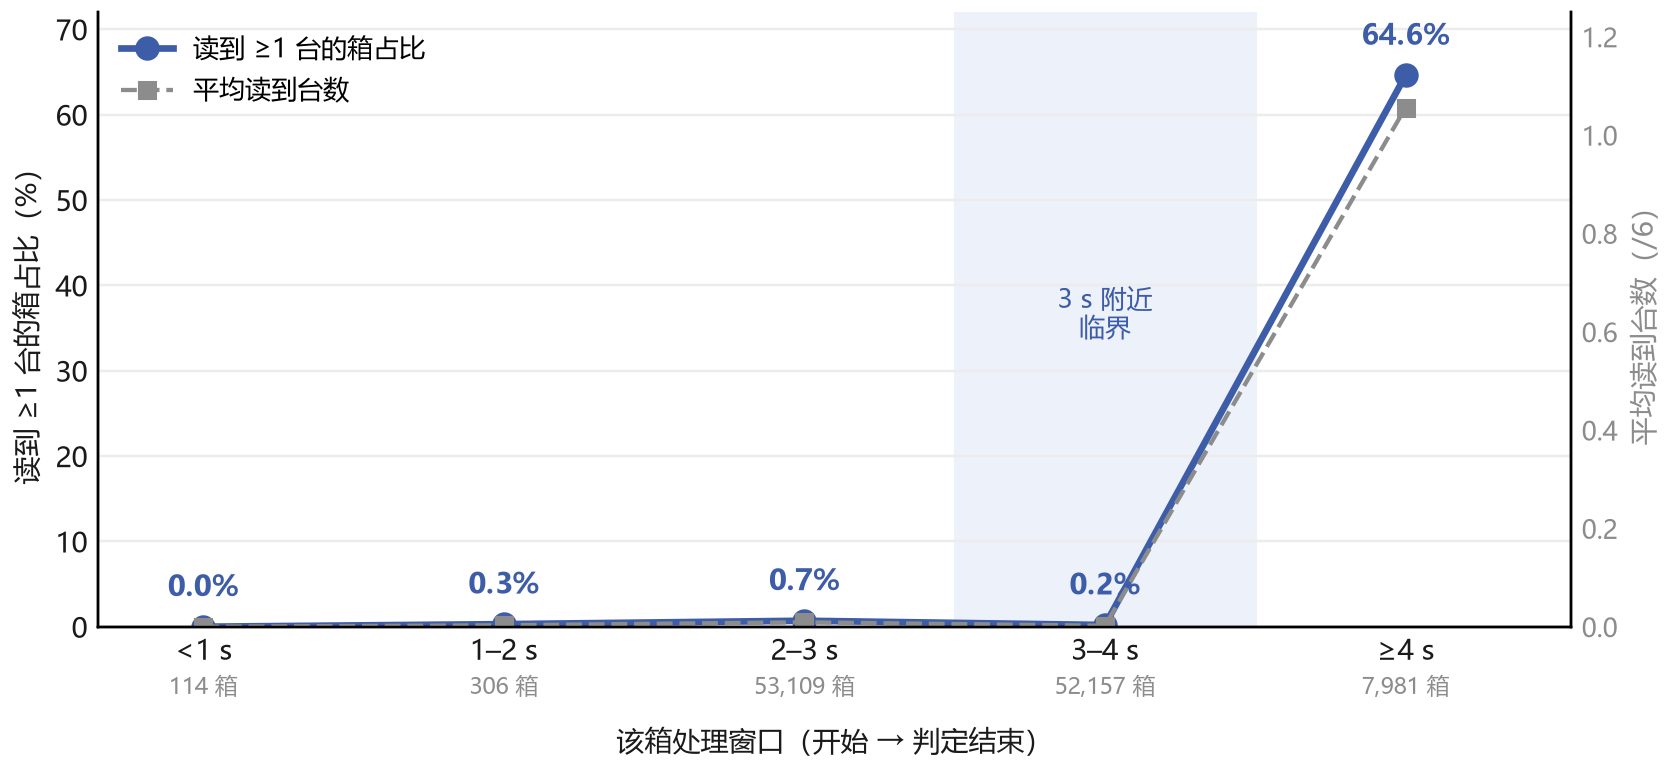
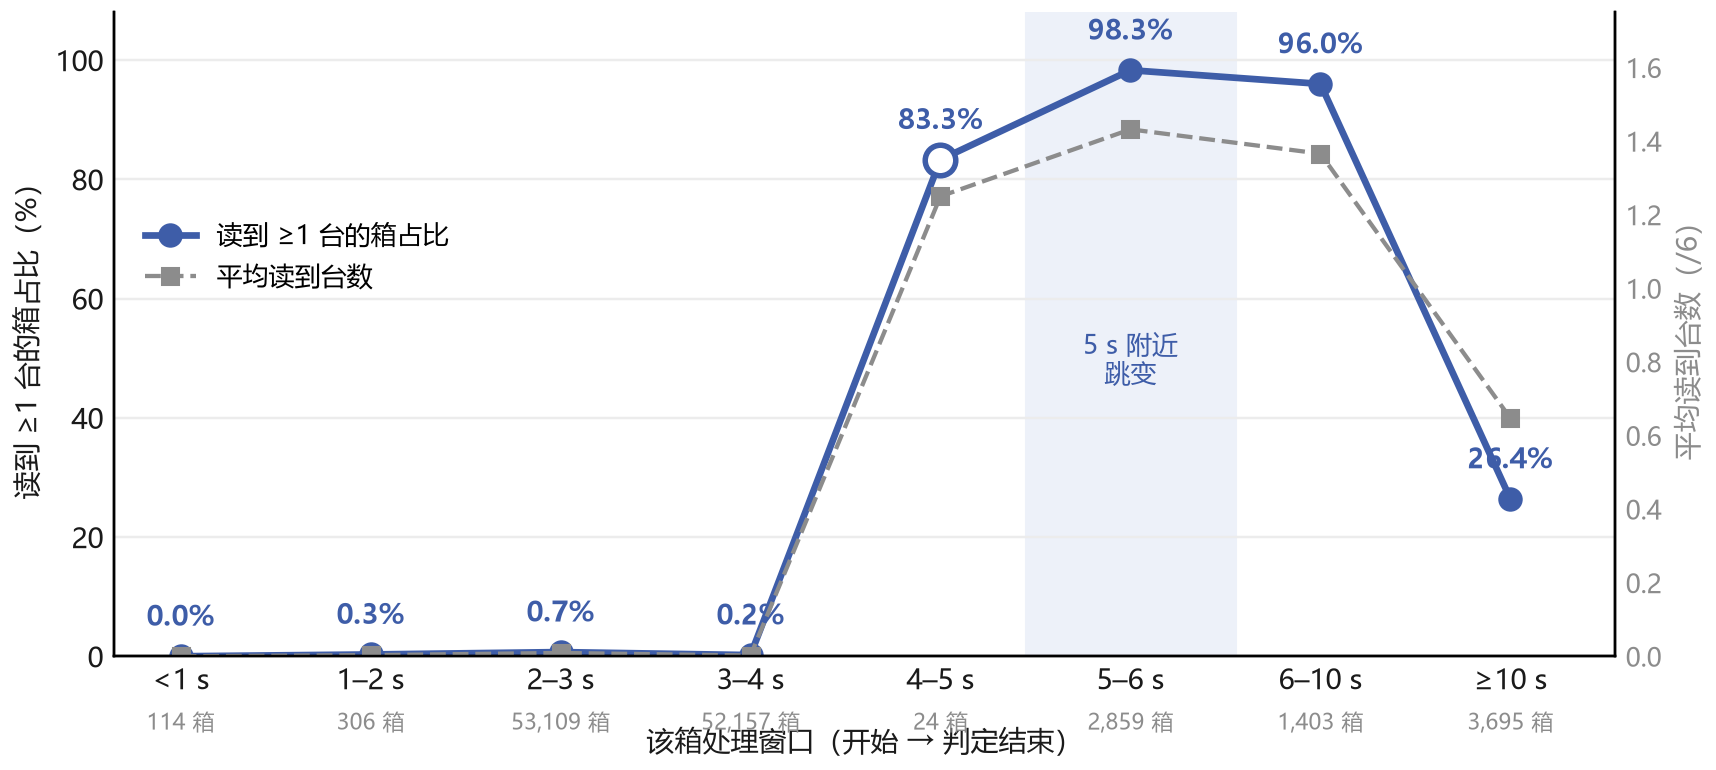
feat(rfid): 停留时间细化到 4-5s/5-6s/6-10s/≥10s 八档，结论改为「5 s 才是卡点」
- ≥4 s 一档太宽（把 5-6 s 的 98% 与 ≥10 s 的 26% 混在一起），重算 8 档并出 CSV dwell_buckets.csv
- 按型号交叉验证：5-6 s 时 6727/7907/8252 分别 98.3%/98.8%/98.0%（三个型号一起跳）
- ≥10 s 回落是卡箱/停摆（6727 99.1% vs 7907 5.3% vs 8252 28.1%），不作外推
- 图 fig_dwell.png 改 8 档、标 5 s 跳变带；页面结论/底部条同步；基线改为用户最新 pure 文件

diff --git a/RFID读取评估_2026-10-21/09_报告/_build/make_dwell_slide.py b/RFID读取评估_2026-10-21/09_报告/_build/make_dwell_slide.py
@@ -35,7 +35,10 @@ ROWS = [("窗口", "箱数", "读到 ≥1 台", "均值"),
         ("1–2 s", "306", "0.3%", "0.003"),
         ("2–3 s", "53,109", "0.7%", "0.009"),
         ("3–4 s", "52,157", "0.2%", "0.002"),
-        ("≥4 s", "7,981", "64.6%", "1.056")]
+        ("4–5 s", "24", "83.3%", "1.250"),
+        ("5–6 s", "2,859", "98.3%", "1.432"),
+        ("6–10 s", "1,403", "96.0%", "1.366"),
+        ("≥10 s", "3,695", "26.4%", "0.647")]
 
 TOC = [("六种放置方式", 3), ("读取方向测试", 4), ("机型月统计", 5), ("机型月统计结论", 6),
        ("停留时间梯度测试", 7), ("RFID 距离梯度测试", 8), ("R4 9 / 6 dBi 对比", 9),
@@ -174,16 +177,16 @@ def main():
     sldIdLst.insert(pos + 1, ids[-1])      # 插到「机型月统计结论」之后
 
     # ------------------------------------------------ 2) 页面内容
-    textbox(s, MARGIN, 0.40, W - 2 * MARGIN, 0.55, [("停留时间梯度测试 - 3 s 卡在临界以下", 22, True, INK)],
+    textbox(s, MARGIN, 0.40, W - 2 * MARGIN, 0.55, [("停留时间梯度测试 - 5 s 才是卡点", 22, True, INK)],
             name="DWELL7_title")
     textbox(s, MARGIN, 0.96, W - 2 * MARGIN, 0.30,
             [("31 天 113,667 箱；窗口＝该箱从开始到判定结束的时长（机台日志逐箱对齐）", 10, False, GRAY)],
             name="DWELL7_kick")
     hline(s, MARGIN, 1.32, W - 2 * MARGIN, name="DWELL7_rule")
 
-    table(s, ROWS, MARGIN, 1.52, 5.55, [1.35, 1.35, 1.55, 1.30], row_h=0.44, name="DWELL7_table")
-    textbox(s, MARGIN, 1.52 + 0.44 * len(ROWS) + 0.08, 5.55, 0.34,
-            [("≥4 s 的 7,981 箱多为慢箱 / 异常窗口，跨 16 天分布。", 7.6, False, GRAY)],
+    table(s, ROWS, MARGIN, 1.50, 5.55, [1.35, 1.35, 1.55, 1.30], row_h=0.34, name="DWELL7_table")
+    textbox(s, MARGIN, 1.50 + 0.34 * len(ROWS) + 0.08, 5.55, 0.28,
+            [("4–5 s 只有 24 箱（跨 16 天），单看这一档会抖动。", 7.4, False, GRAY)],
             name="DWELL7_tabnote")
 
     fig_path = os.path.join(FIG, "fig_dwell.png")
@@ -195,21 +198,20 @@ def main():
     rect(s, 6.45, 4.44, 6.26, 1.06, fill=TINT, name="DWELL7_concl_box")
     textbox(s, 6.62, 4.54, 5.95, 1.24, [
         ("结论", 10, True, ACCENT),
-        ("3 s 以内，读到过标签的箱不到 1%；放到 ≥4 s，直接到 64.6%（均值 0.01 → 1.06 台）。", 9.2, False, INK),
-        ("⇒ 现在的 3 s 正卡在临界以下。", 9.2, True, INK),
+        ("3 s 以内几乎读不到（≤0.7%）；窗口跨过 5 s，三个型号一起到 98%。", 9.2, False, INK),
+        ("⇒ 卡点在 5 s，不是 3 s。", 9.2, True, INK),
     ], spacing=1.25, name="DWELL7_concl")
 
-    textbox(s, MARGIN, 4.44, 5.55, 1.70, [
-        ("同批箱已排除的变量", 9.4, True, GRAY),
-        ("距离 0–50 cm：1.3 → 0，读数与距离无关", 8.8, False, INK),
-        ("天线 9 / 6 dBi：0.79 vs 0.58 台（差 0.21）", 8.8, False, INK),
-        ("背壳 塑料 / 金属：7.8% vs 8.7%", 8.8, False, INK),
-        ("⇒ 剩下的差别就在「给了多少时间」这一项。", 8.8, True, ACCENT),
-    ], spacing=1.28, name="DWELL7_excluded")
+    textbox(s, MARGIN, 4.72, 5.55, 1.60, [
+        ("按型号看 5–6 s（三个型号一起跳上来）", 9.2, True, GRAY),
+        ("6727：2,482 箱 98.3%　｜　7907：250 箱 98.8%　｜　8252：49 箱 98.0%", 8.6, False, INK),
+        ("≥10 s 反而回落：6727 99.1%，但 7907 只有 5.3%、8252 28.1% —— 长窗口多为卡箱 / 停摆。", 8.6, False, INK),
+        ("⇒ 3 s 以内三个型号都读不到，跨过 5 s 才同时读到。", 8.6, True, ACCENT),
+    ], spacing=1.26, name="DWELL7_excluded")
 
     rect(s, MARGIN, 6.34, 0.05, 0.34, fill=ACCENT, name="DWELL7_bar")
     textbox(s, MARGIN + 0.16, 6.36, W - 2 * MARGIN - 0.2, 0.30,
-            [("距离、增益都已排除：先把停留放到 ≥5 s（或「读到即停」）复测 30 分钟。", 11, True, INK)],
+            [("先把停留放到 5–6 s 复测：距离、增益、背壳都已排除，这一步就能分清是时间还是标签。", 10.6, True, INK)],
             anchor=MSO_ANCHOR.MIDDLE, name="DWELL7_take")
 
     # ------------------------------------------------ 3) 目录重排（只动脚本自己生成的 TOC_* 形状）

diff --git a/RFID读取评估_2026-10-21/09_报告/_build/make_fig_dwell.py b/RFID读取评估_2026-10-21/09_报告/_build/make_fig_dwell.py
@@ -28,38 +28,40 @@ fm.fontManager.addfont(r"C:\Windows\Fonts\msyh.ttc")
 plt.rcParams["font.family"] = "Microsoft YaHei"
 plt.rcParams["axes.unicode_minus"] = False
 
-buckets = ["<1 s", "1–2 s", "2–3 s", "3–4 s", "≥4 s"]
-boxes = [114, 306, 53109, 52157, 7981]
-pct = [0.0, 0.3, 0.7, 0.2, 64.6]
-avg = [0.000, 0.003, 0.009, 0.002, 1.056]
+buckets = ["<1 s", "1–2 s", "2–3 s", "3–4 s", "4–5 s", "5–6 s", "6–10 s", "≥10 s"]
+boxes = [114, 306, 53109, 52157, 24, 2859, 1403, 3695]
+pct = [0.0, 0.3, 0.7, 0.2, 83.3, 98.3, 96.0, 26.4]
+avg = [0.000, 0.003, 0.009, 0.002, 1.250, 1.432, 1.366, 0.647]
 
 
 def main():
-    fig, ax = plt.subplots(figsize=(7.6, 3.5), dpi=220)
+    fig, ax = plt.subplots(figsize=(7.8, 3.5), dpi=220)
     x = list(range(len(buckets)))
 
     ax.plot(x, pct, "-o", color=ACCENT, lw=2.2, ms=7, label="读到 ≥1 台的箱占比")
+    ax.plot([4], [pct[4]], "o", ms=10, mfc="white", mec=ACCENT, mew=1.8, zorder=5)
     for xi, yi, nb in zip(x, pct, boxes):
         ax.annotate(f"{yi:.1f}%", (xi, yi), textcoords="offset points", xytext=(0, 10),
-                    ha="center", fontsize=9.5, color=ACCENT, fontweight="bold")
-        ax.annotate(f"{nb:,} 箱", (xi, 0), textcoords="offset points", xytext=(0, -22),
-                    ha="center", fontsize=7.6, color=GRAY)
+                    ha="center", fontsize=9.2, color=ACCENT, fontweight="bold")
+        ax.annotate(f"{nb:,} 箱", (xi, 0), textcoords="offset points", xytext=(0, -24),
+                    ha="center", fontsize=7.2, color=GRAY)
 
     ax2 = ax.twinx()
     ax2.plot(x, avg, "--s", color=GRAY, lw=1.4, ms=5, label="平均读到台数")
-    ax2.set_ylim(0, 1.25)
+    ax2.set_ylim(0, 1.75)
     ax2.set_ylabel("平均读到台数（/6）", fontsize=9, color=GRAY)
     ax2.tick_params(colors=GRAY, labelsize=8.5, length=0)
     for sp in ("top",):
         ax2.spines[sp].set_visible(False)
 
-    ax.axvspan(2.5, 3.5, color="#EDF1F9", zorder=0)
-    ax.text(3.0, 34, "3 s 附近\n临界", ha="center", fontsize=8.4, color=ACCENT)
+    ax.axvspan(4.45, 5.55, color="#EDF1F9", zorder=0)
+    ax.text(5.0, 46, "5 s 附近\n跳变", ha="center", fontsize=8.6, color=ACCENT)
+
 
     ax.set_xticks(x)
-    ax.set_xticklabels([f"{b}\n" for b in buckets], fontsize=9, color=INK)
+    ax.set_xticklabels(buckets, fontsize=8.4, color=INK)
     ax.set_xlim(-0.35, len(buckets) - 0.45)
-    ax.set_ylim(0, 72)
+    ax.set_ylim(0, 108)
     ax.set_xlabel("该箱处理窗口（开始 → 判定结束）", fontsize=9, color=INK, labelpad=10)
     ax.set_ylabel("读到 ≥1 台的箱占比（%）", fontsize=9, color=INK)
     for sp in ("top",):
@@ -70,7 +72,7 @@ def main():
 
     lines1, labels1 = ax.get_legend_handles_labels()
     lines2, labels2 = ax2.get_legend_handles_labels()
-    ax.legend(lines1 + lines2, labels1 + labels2, frameon=False, fontsize=8.4, loc="upper left")
+    ax.legend(lines1 + lines2, labels1 + labels2, frameon=False, fontsize=8.4, loc="center left", bbox_to_anchor=(0.005, 0.62))
 
     fig.tight_layout(pad=0.4)
     fig.savefig(OUT, facecolor="white")

diff --git a/RFID读取评估_2026-10-21/12_会话要点与决策_20261023.md b/RFID读取评估_2026-10-21/12_会话要点与决策_20261023.md
@@ -160,3 +160,24 @@ f50cd31  15:20  R6 结论条改侧向读
 + 两句结论 + 左下「同批箱已排除的变量」+ 底部动作条；目录重排为 10 条、页码与实际页序一致。
 脚本：`make_fig_dwell.py`（出图）、`make_dwell_slide.py`（插页 + 重排目录，可重复执行）。
 结论用 deck 自己的语气：**「3 s 以内读到过标签的箱不到 1%；放到 ≥4 s 直接到 64.6% ⇒ 现在的 3 s 正卡在临界以下。」**
+
+### 8.1 细化到 4–5 s / 5–6 s（2026-10-27 二次修订，基线＝`RFID读取能力评估_20261026_简洁版_pure.pptx`）
+
+原来的「≥4 s」一档太宽（把 5–6 s 与 ≥10 s 混在一起）。重算 8 档：
+
+| 窗口 | 箱数 | 读到 ≥1 台 | 均值 |
+|---|---|---|---|
+| <1 s | 114 | 0.0% | 0.000 |
+| 1–2 s | 306 | 0.3% | 0.003 |
+| 2–3 s | 53,109 | 0.7% | 0.009 |
+| 3–4 s | 52,157 | 0.2% | 0.002 |
+| 4–5 s | **24** | 83.3% | 1.250 |
+| 5–6 s | 2,859 | **98.3%** | 1.432 |
+| 6–10 s | 1,403 | 96.0% | 1.366 |
+| ≥10 s | 3,695 | 26.4% | 0.647 |
+
+按型号看 5–6 s：6727 98.3%（2,482 箱）／7907 98.8%（250 箱）／8252 98.0%（49 箱）—— 三个型号一起跳。
+≥10 s 反而回落：6727 99.1%，但 7907 5.3%、8252 28.1% —— 长窗口多为卡箱 / 停摆，不能当"时间越长越好"。
+
+**结论改成**：3 s 以内几乎读不到（≤0.7%）；跨过 5 s 三个型号一起到 98% ⇒ **卡点是 5 s，不是 3 s**。
+明细：`03_数据/dwell_buckets.csv`；图：`figs/fig_dwell.png`；页：`make_dwell_slide.py`。
